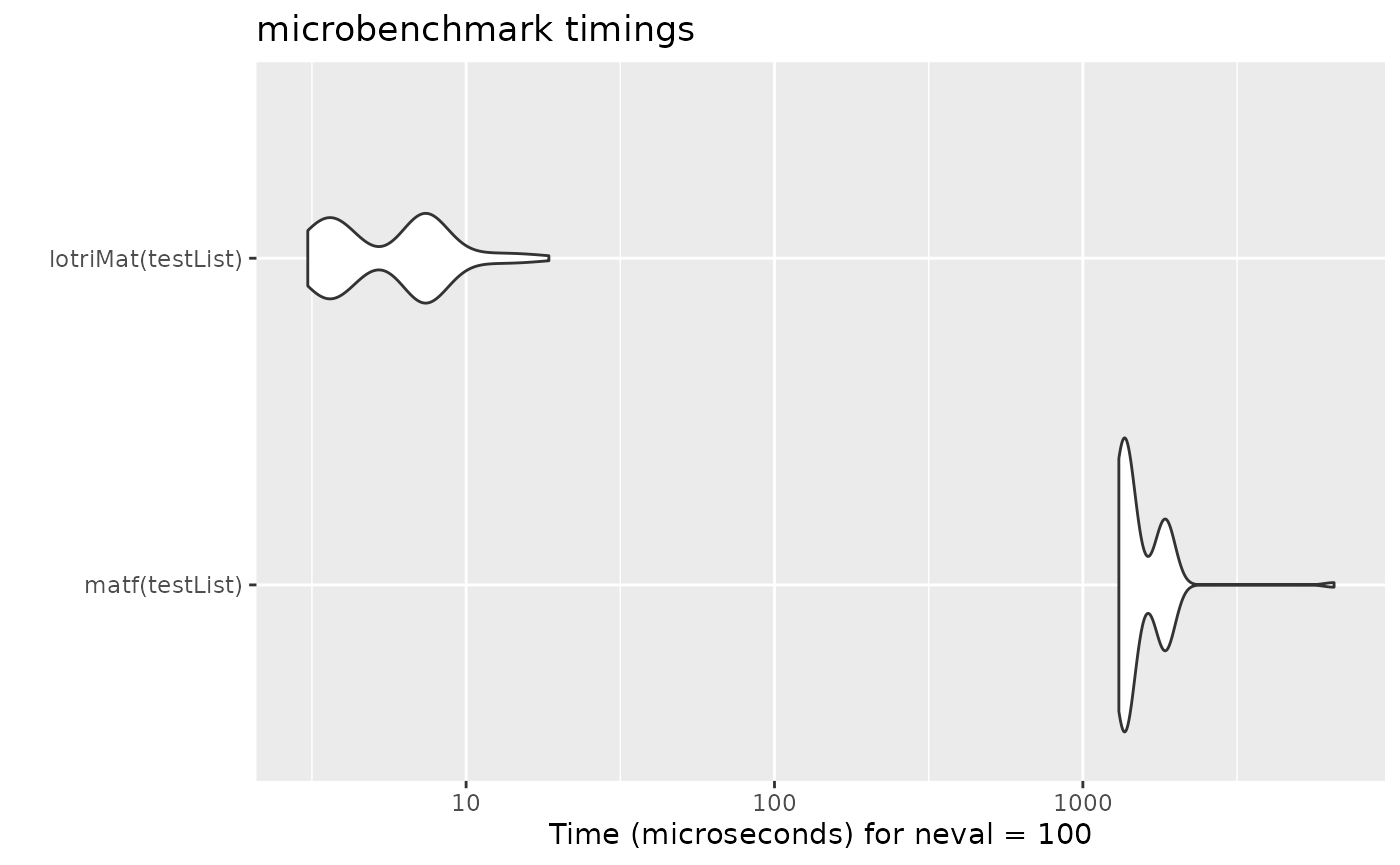
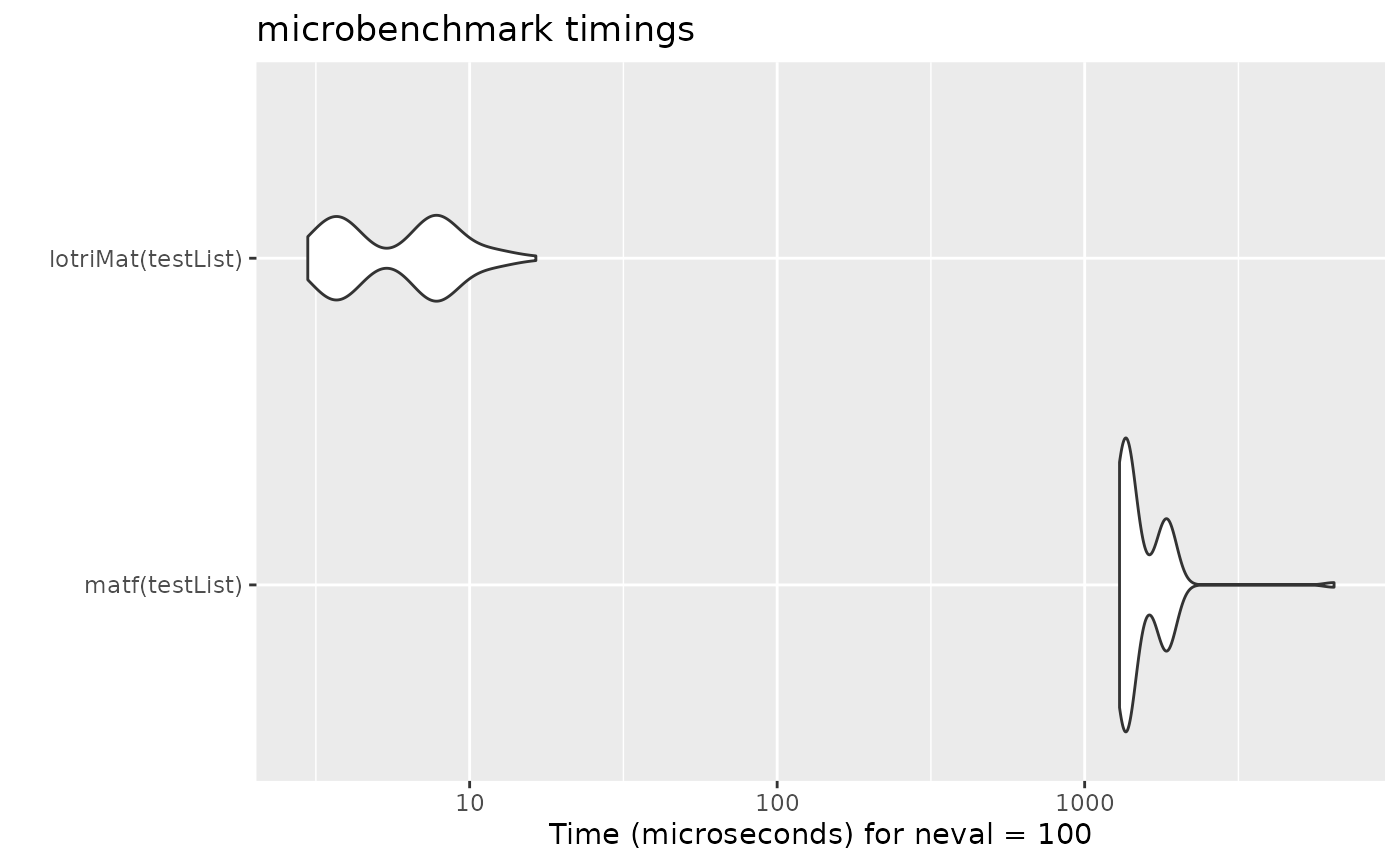
Deploying to gh-pages from @ nlmixr2/lotri@484e7667ca7ca2e0b373e5e2e1f0c76d8211fd1b 🚀

diff --git a/reference/dot-lotriPointers.html b/reference/dot-lotriPointers.html
@@ -59,34 +59,34 @@
     <div class="sourceCode"><pre class="sourceCode r"><code><span class="r-in"><span></span></span>
 <span class="r-in"><span><span class="fu">.lotriPointers</span><span class="op">(</span><span class="op">)</span></span></span>
 <span class="r-out co"><span class="r-pr">#&gt;</span> $lotriLstToMat</span>
-<span class="r-out co"><span class="r-pr">#&gt;</span> &lt;pointer: 0x7f0745825f40&gt;</span>
+<span class="r-out co"><span class="r-pr">#&gt;</span> &lt;pointer: 0x7f554f348f40&gt;</span>
 <span class="r-out co"><span class="r-pr">#&gt;</span> </span>
 <span class="r-out co"><span class="r-pr">#&gt;</span> $asLotriMat</span>
-<span class="r-out co"><span class="r-pr">#&gt;</span> &lt;pointer: 0x7f07458241b0&gt;</span>
+<span class="r-out co"><span class="r-pr">#&gt;</span> &lt;pointer: 0x7f554f3471b0&gt;</span>
 <span class="r-out co"><span class="r-pr">#&gt;</span> </span>
 <span class="r-out co"><span class="r-pr">#&gt;</span> $lotriSep</span>
-<span class="r-out co"><span class="r-pr">#&gt;</span> &lt;pointer: 0x7f0745827f40&gt;</span>
+<span class="r-out co"><span class="r-pr">#&gt;</span> &lt;pointer: 0x7f554f34af40&gt;</span>
 <span class="r-out co"><span class="r-pr">#&gt;</span> </span>
 <span class="r-out co"><span class="r-pr">#&gt;</span> $lotriAllNames</span>
-<span class="r-out co"><span class="r-pr">#&gt;</span> &lt;pointer: 0x7f0745828510&gt;</span>
+<span class="r-out co"><span class="r-pr">#&gt;</span> &lt;pointer: 0x7f554f34b510&gt;</span>
 <span class="r-out co"><span class="r-pr">#&gt;</span> </span>
 <span class="r-out co"><span class="r-pr">#&gt;</span> $lotriGetBounds</span>
-<span class="r-out co"><span class="r-pr">#&gt;</span> &lt;pointer: 0x7f0745824750&gt;</span>
+<span class="r-out co"><span class="r-pr">#&gt;</span> &lt;pointer: 0x7f554f347750&gt;</span>
 <span class="r-out co"><span class="r-pr">#&gt;</span> </span>
 <span class="r-out co"><span class="r-pr">#&gt;</span> $lotriMaxNu</span>
-<span class="r-out co"><span class="r-pr">#&gt;</span> &lt;pointer: 0x7f0745827a10&gt;</span>
+<span class="r-out co"><span class="r-pr">#&gt;</span> &lt;pointer: 0x7f554f34aa10&gt;</span>
 <span class="r-out co"><span class="r-pr">#&gt;</span> </span>
 <span class="r-out co"><span class="r-pr">#&gt;</span> $isLotri</span>
-<span class="r-out co"><span class="r-pr">#&gt;</span> &lt;pointer: 0x7f07458283f0&gt;</span>
+<span class="r-out co"><span class="r-pr">#&gt;</span> &lt;pointer: 0x7f554f34b3f0&gt;</span>
 <span class="r-out co"><span class="r-pr">#&gt;</span> </span>
 <span class="r-out co"><span class="r-pr">#&gt;</span> $lotriRcm</span>
-<span class="r-out co"><span class="r-pr">#&gt;</span> &lt;pointer: 0x7f0745833490&gt;</span>
+<span class="r-out co"><span class="r-pr">#&gt;</span> &lt;pointer: 0x7f554f356490&gt;</span>
 <span class="r-out co"><span class="r-pr">#&gt;</span> </span>
 <span class="r-out co"><span class="r-pr">#&gt;</span> $lotriNearPDc</span>
-<span class="r-out co"><span class="r-pr">#&gt;</span> &lt;pointer: 0x7f074582d7f0&gt;</span>
+<span class="r-out co"><span class="r-pr">#&gt;</span> &lt;pointer: 0x7f554f3507f0&gt;</span>
 <span class="r-out co"><span class="r-pr">#&gt;</span> </span>
 <span class="r-out co"><span class="r-pr">#&gt;</span> $lotriNearPDsexp</span>
-<span class="r-out co"><span class="r-pr">#&gt;</span> &lt;pointer: 0x7f074582dd60&gt;</span>
+<span class="r-out co"><span class="r-pr">#&gt;</span> &lt;pointer: 0x7f554f350d60&gt;</span>
 <span class="r-out co"><span class="r-pr">#&gt;</span> </span>
 </code></pre></div>
     </div>

diff --git a/articles/lotri-motivation.html b/articles/lotri-motivation.html
@@ -65,7 +65,7 @@
                         <h4 data-toc-skip class="author">Matthew
 Fidler</h4>
             
-            <h4 data-toc-skip class="date">2024-09-14</h4>
+            <h4 data-toc-skip class="date">2024-09-17</h4>
       
       <small class="dont-index">Source: <a href="https://github.com/nlmixr2/lotri/blob/main/vignettes/lotri-motivation.Rmd" class="external-link"><code>vignettes/lotri-motivation.Rmd</code></a></small>
       <div class="d-none name"><code>lotri-motivation.Rmd</code></div>
@@ -228,9 +228,9 @@ concatenation with <code>lotriMat</code></p>
 <span></span>
 <span><span class="fu"><a href="https://rdrr.io/r/base/print.html" class="external-link">print</a></span><span class="op">(</span><span class="va">mb</span><span class="op">)</span></span>
 <span><span class="co">#&gt; Unit: microseconds</span></span>
-<span><span class="co">#&gt;                expr      min       lq       mean    median       uq      max</span></span>
-<span><span class="co">#&gt;      matf(testList) 1308.410 1346.396 1561.47657 1393.4790 1834.286 6525.050</span></span>
-<span><span class="co">#&gt;  lotriMat(testList)    3.066    3.747    6.18601    6.8225    7.494   18.554</span></span>
+<span><span class="co">#&gt;                expr      min        lq       mean    median        uq      max</span></span>
+<span><span class="co">#&gt;      matf(testList) 1298.373 1342.6255 1559.05065 1392.0625 1826.4680 6472.665</span></span>
+<span><span class="co">#&gt;  lotriMat(testList)    2.976    3.8125    6.31482    6.8975    8.0755   16.421</span></span>
 <span><span class="co">#&gt;  neval</span></span>
 <span><span class="co">#&gt;    100</span></span>
 <span><span class="co">#&gt;    100</span></span>
